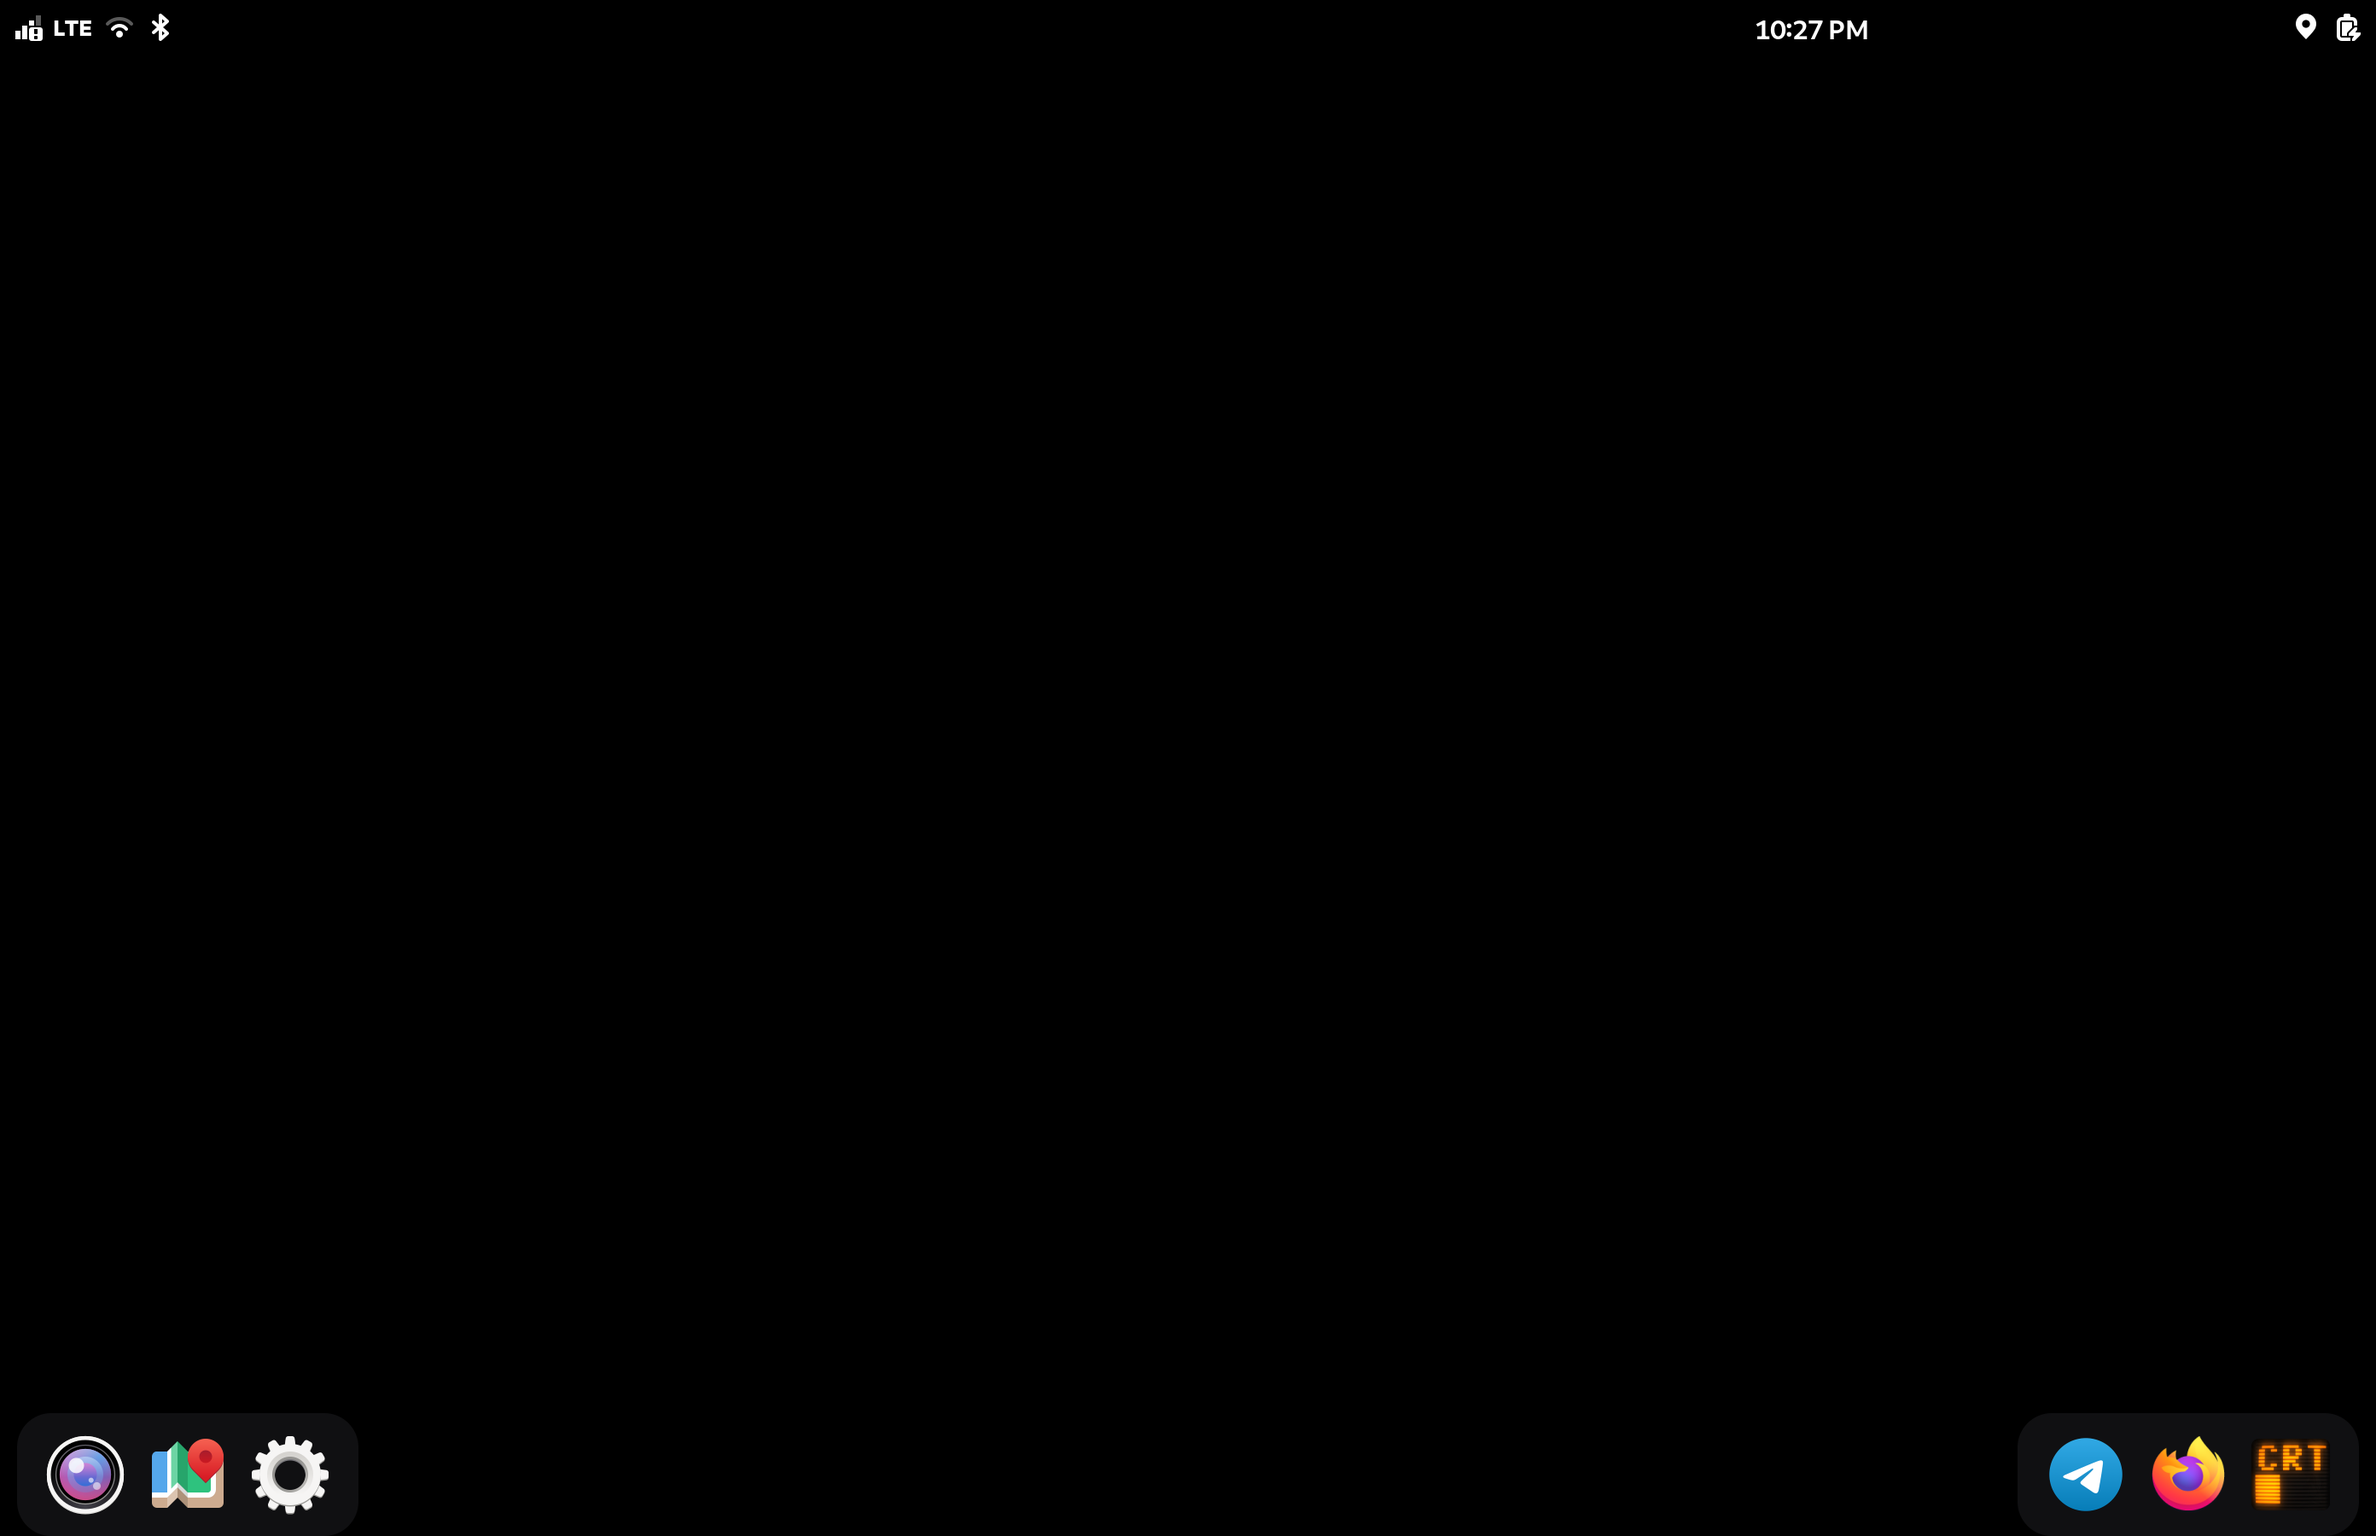
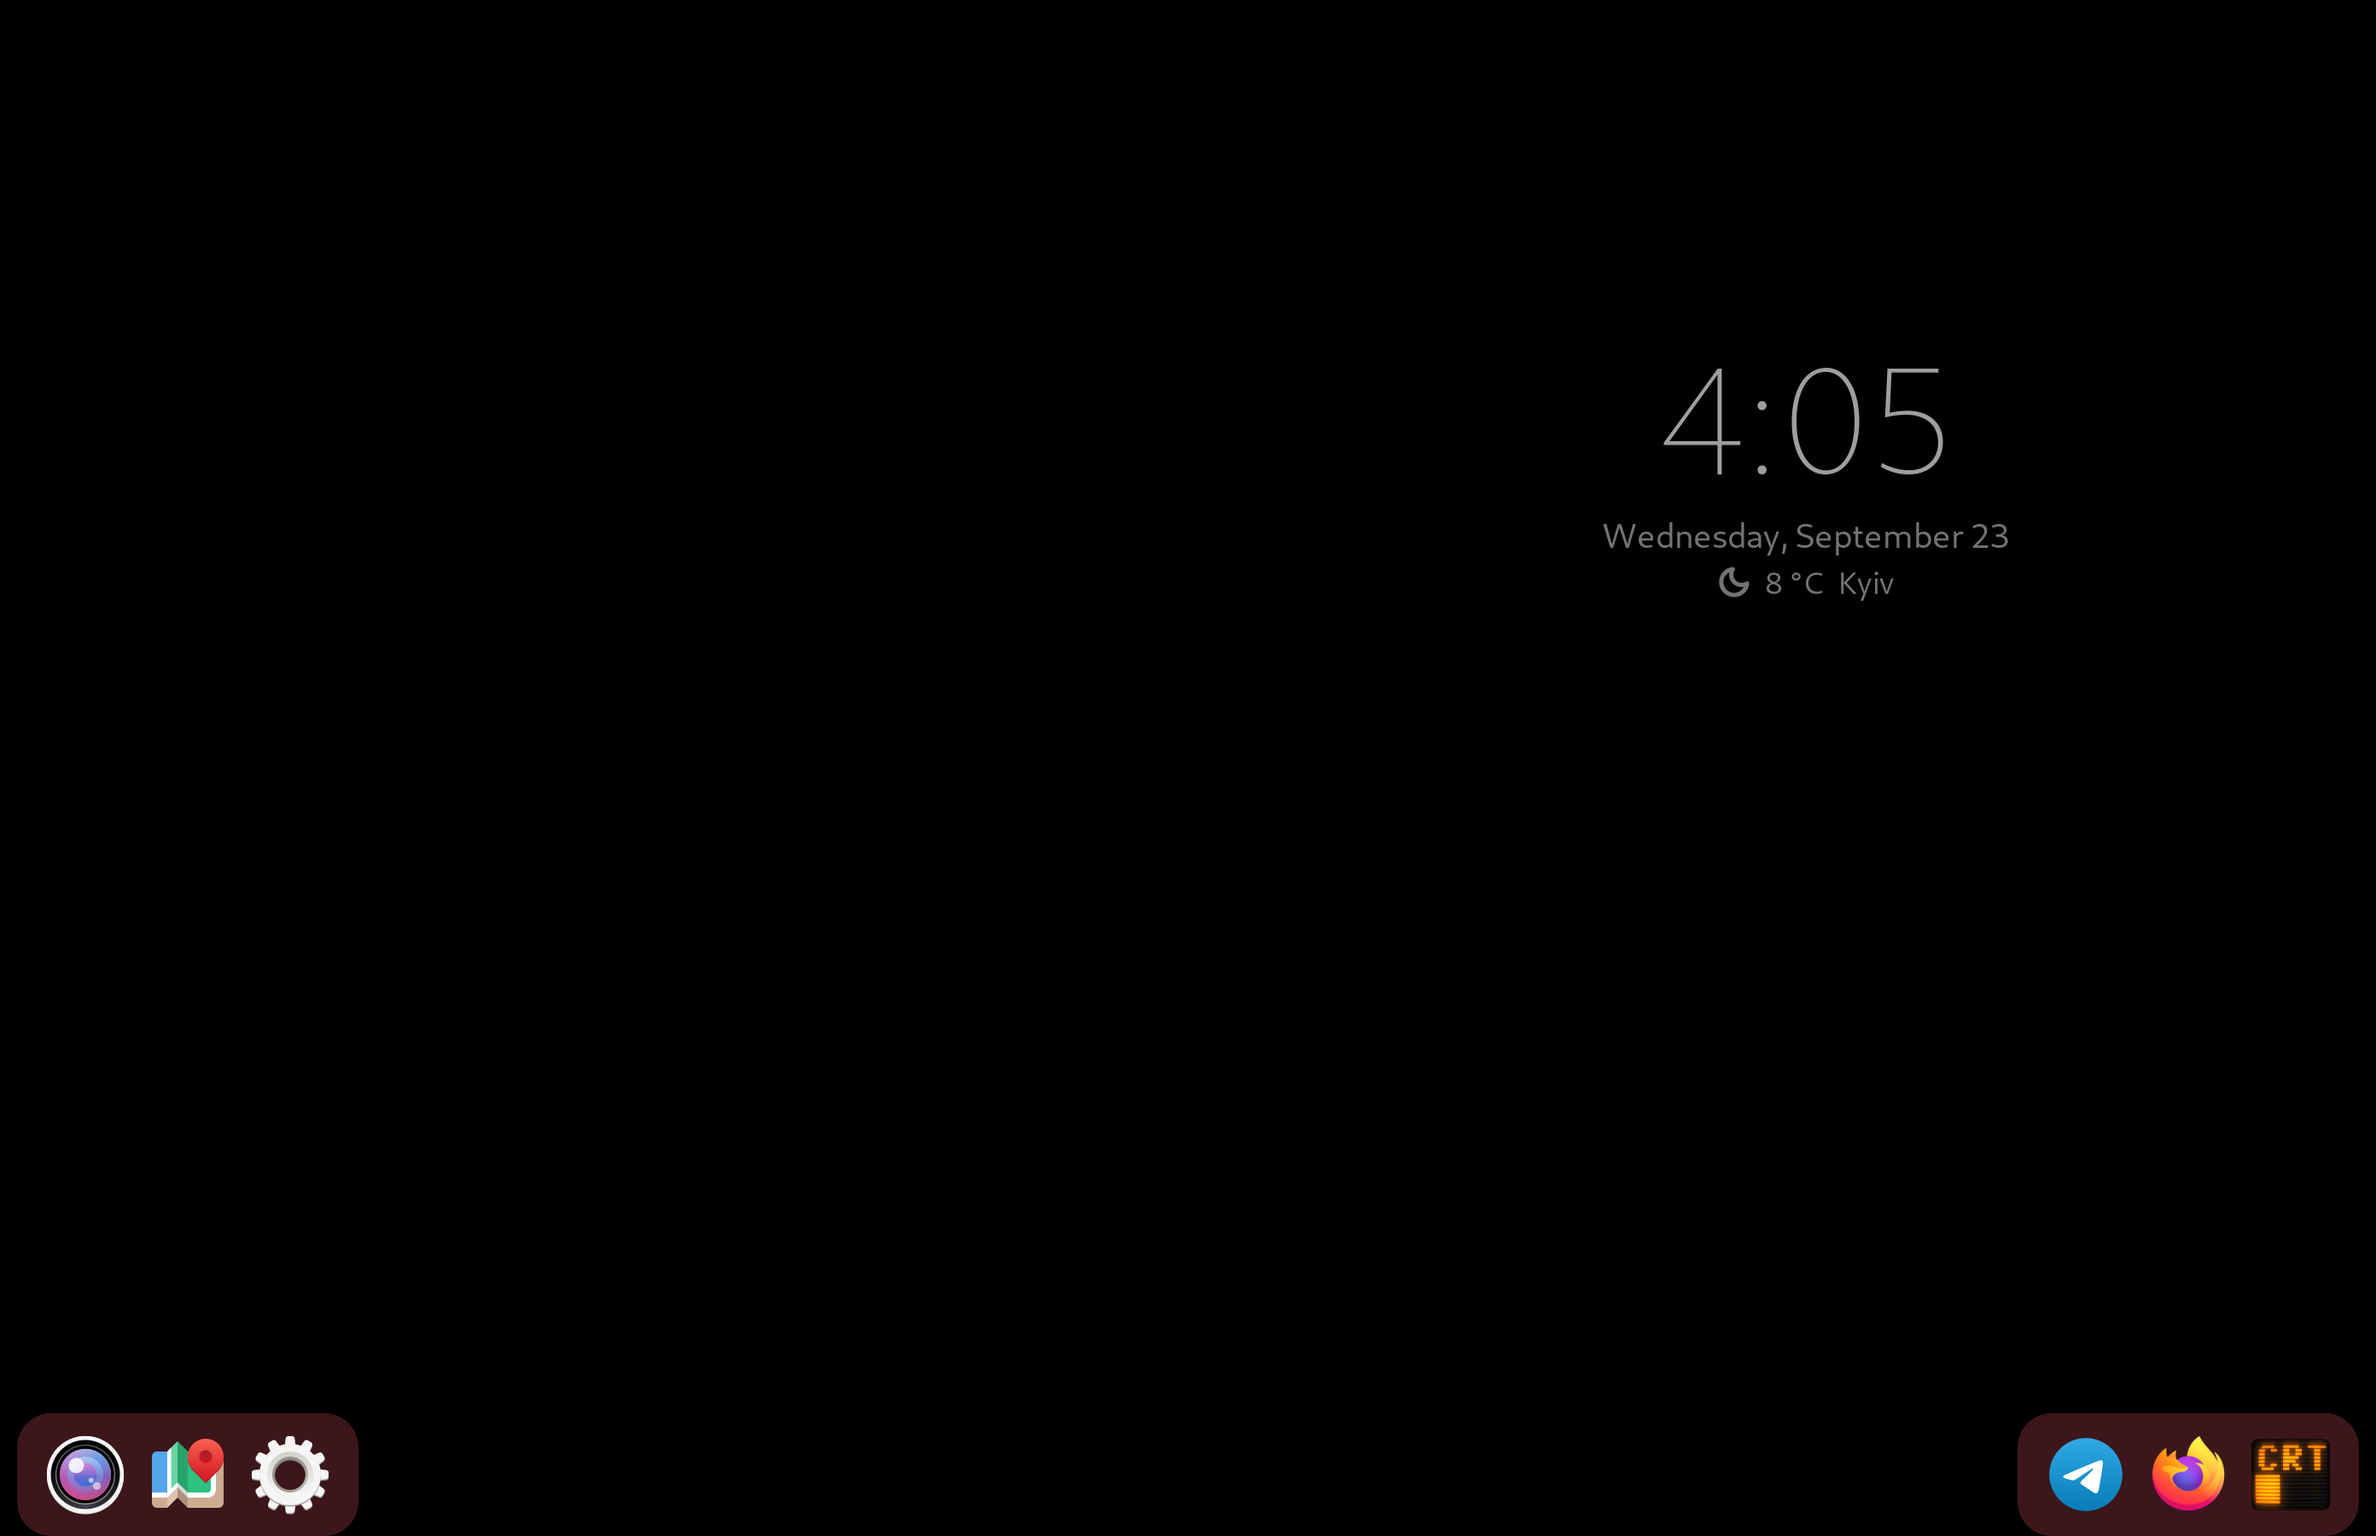
README: 0.17 - no status bar, the clock, Settings' switches, new screenshots
Status as of 2026-09-23: a fold locks and now turns the display off
rather than suspending, with what that costs overnight; the two-panel
shell row gains 0.17 (no bar outside the lock screen, the clock and the
weather, the far shade's status, the privacy dot, Settings' switches,
one way back). The shell README gets the 'No status bar' section. New
screenshots on 0.17.0: the desktop, Settings beside the clock, a window
on each panel, the right-hand shade; the first-run wizard and the grid
(with the bar, and the dock's gap of #104) retire. The package builds
0.17.0 by default.

diff --git a/README.md b/README.md
@@ -22,18 +22,20 @@ Microsoft's debugging (`kernel-packaging/droidian/surfaceduo-perf.config`,
 ## What it looks like
 
 Screenshots of the one output both panels share (2784x1800; the 84 px column
-the hinge hides is in the middle), taken on 0.15.4 at the port's output scale
-of 2 (the first-run wizard on a from-scratch install of 0.14.2, at 2.5). The
-two-panel shell is **experimental and in development**.
+the hinge hides is in the middle), taken on 0.17.0 at the port's output scale
+of 2 - the lock screen on 0.15.4, which it still looks like. The two-panel
+shell is **experimental and in development**.
 
 | | |
 |---|---|
-| ![the first-run wizard on one panel](docs/img/shell-welcome.png) | ![the dock across both panels](docs/img/shell-desktop.png) |
-| A window on the panel it opened on: the dock tiles it there, and the patched phoc stops it at the hinge rather than half way into it. | The dock in two halves, one at each panel's outer edge, under the thumbs. |
-| ![the app grid](docs/img/shell-grid.png) | ![the lock screen](docs/img/shell-lockscreen.png) |
-| Swipe up on a panel: every app, on that panel, and the dock's halves join on the other. | The lock screen, kept off the hinge by CSS alone; 55-60 fps on the unlock swipe at scale 2. |
+| ![the desktop: the dock in two halves and the clock](docs/img/shell-desktop.png) | ![Settings on one panel, the clock on the other](docs/img/shell-window.png) |
+| Nothing open: the dock in two halves at the panels' outer edges, under the thumbs, and the time, the date and the weather on the right panel. No status bar - since 0.17 there is none outside the lock screen. | The port's Settings on the panel it was opened on, at its Surface Duo page - the two-panel shell, the output scale, idle blanking. Back is the arrow in the corner under the thumb; the clock and the dock move to the free panel. |
+| ![a window on each panel](docs/img/shell-two.png) | ![the right-hand shade](docs/img/shell-shade.png) |
+| A window on each panel, each at its panel's full height: with both panels taken the dock and the clock step aside. | The right-hand shade: the clock, the date, signal, Wi-Fi and battery, the open windows with the panel each is on, and the notifications. The left-hand one holds the settings. |
+| ![the lock screen](docs/img/shell-lockscreen.png) | |
+| The lock screen keeps its bar, kept off the hinge by CSS alone; 55-60 fps on the unlock swipe at scale 2. | |
 
-## Status (2026-09-17)
+## Status (2026-09-23)
 
 | Subsystem | Status | Notes |
 |---|---|---|
@@ -52,11 +54,11 @@ two-panel shell is **experimental and in development**.
 | Flashlight / vibration | ✅ | sysfs LEDs (video group via udev); da7280 (FF_CONSTANT only) |
 | Pen (stylus) | 🟡 | it inks, but it is not a stylus to applications. The digitizer sends graded pressure, both buttons and a tool type; libinput discards all of it, because the node has to be classified as a touchscreen or touch dies. Measurements and the fix: [docs/PEN.md](docs/PEN.md) |
 | Brightness | ✅ | the phosh slider drives both panels (udev change-event sync); auto-brightness pending (ALS already works) |
-| Fold-to-sleep | ✅ | hall sensor (GPIO 121) → SW_LID bridge → logind suspends on fold; WoWLAN keeps WiFi associated through sleep |
+| Fold | ✅ | hall sensor (GPIO 121) → SW_LID bridge → logind. Since 0.13 a fold locks rather than suspends (suspend is off in the session; to have it back see [adaptation/system](adaptation/system/README.md)); since 0.17 it also turns the display off - closed on battery 33-55 mA, about 10 % of the battery over a night, against 126-184 mA with the panels left lit |
 | GPS | ✅ | vendor GNSS + geoclue hybris source, ~4 m fixes; needs the geoclue keepalive drop-in from the adaptation (see traps below) |
 | Modem (calls/SMS/LTE) | 🟡 | LTE data works (70-90 ms pings) once the adaptation puts the modem online and on LTE at boot - it comes up offline and on 3G otherwise, see [adaptation/system](adaptation/system/README.md). Incoming SMS arrive; sending SMS and calls not tested yet |
 | Video out (USB-C DP) | ❓ | the whole DisplayPort path sits in the stock device tree and probes cleanly; whether the lanes reach the connector has never been tested - see below |
-| Dual-screen aware UI | 🧪 | experimental, in development: stock phosh spans both panels as one; the adaptation adds a dock across both that tiles each app onto the panel it was launched from, CSS that keeps the shell's own furniture off the hinge, and patched phosh and phoc binaries (focus after the app grid closes; tiled windows stop at the hinge) - see [adaptation/shell](adaptation/shell/README.md). Since 0.15 the on-screen keyboard takes one panel (a patched phosh-osk-stub). Since 0.16 each half has its own shade (settings on the left, the open windows and notifications on the right), a lone window gets its panel's full height with the bar moved to the free one, the port's own Settings groups the pages that apply here, a swipe in from the outer edge is back, and windows close, minimize and cross between panels with a motion (patched phoc) |
+| Dual-screen aware UI | 🧪 | experimental, in development: stock phosh spans both panels as one; the adaptation adds a dock across both that tiles each app onto the panel it was launched from, CSS that keeps the shell's own furniture off the hinge, and patched phosh and phoc binaries (focus after the app grid closes; tiled windows stop at the hinge) - see [adaptation/shell](adaptation/shell/README.md). Since 0.15 the on-screen keyboard takes one panel (a patched phosh-osk-stub). Since 0.16 each half has its own shade (settings on the left, the open windows and notifications on the right), a lone window gets its panel's full height with the bar moved to the free one, the port's own Settings groups the pages that apply here, a swipe in from the outer edge is back, and windows close, minimize and cross between panels with a motion (patched phoc). Since 0.17 there is no status bar outside the lock screen (it burned into the OLED panels and took height from every window): the time, the date and the weather stand on the free panel, the right-hand shade carries the signal, Wi-Fi and battery, and a dot in the corner shows the microphone or the camera in use; Settings' Surface Duo page switches the two-panel shell, the output scale and idle blanking; back is one arrow in the corner under the thumb, with no arrows or chevrons in the pages |
 
 ## Repository layout
 

diff --git a/adaptation/shell/README.md b/adaptation/shell/README.md
@@ -267,6 +267,34 @@ new height on a bar at rest was stored and ignored, and the window stayed
 32 px down. Now the commit that sets it applies it and the output
 rearranges, which re-tiles the tiled windows too.
 
+### No status bar (0.17)
+
+The one-window case turned out to be the whole answer. Since 0.17 both
+halves of the bar are folded to their handles whenever the dock is running
+and the phone is not locked, whatever is open (#95, #96): a strip of fixed
+icons lit in the same pixels all day is the classic OLED burn-in, and its
+height came out of every window. The lock screen keeps its bar - the screen
+is lit to be glanced at. What the bar said went where it belongs:
+
+- **The time**, the date and the weather stand on the free panel as a clock
+  of the dock's (`DesktopClock`, #98) - on the right panel when both are
+  free, gone when neither is. It is a top-layer surface, because phosh's
+  home, which is what the desktop's black actually is, is one too and hid a
+  clock on the bottom layer; it follows the dock's own panel, which already
+  counts launches in flight, the keyboard and a pulled shade. Grey and thin,
+  and each minute it steps up to 12 px from its place. The weather is GNOME
+  Weather's first city, through its library, with met.no switched on (the
+  library's default sources gave nothing for Kyiv). A design of its own: #101.
+- **Signal, Wi-Fi and battery** are in the right-hand shade's head, under
+  its clock and date (`phosh-patches/0015`) - indicators of their own, the
+  bar keeping its for the lock screen.
+- **A microphone or a camera in use** is a dot in the right panel's top
+  corner (`PrivacyDot`, #99): orange while PulseAudio has a source output,
+  green while the camera app's window is open (Android's camera service
+  tells no one). Location is left out while something holds it all the time
+  (#102). A low battery was already gsd-power's notification, at UPower's
+  20 % and 5 %.
+
 ### Back, from the edge
 
 A window's back arrow is at its top, far from a thumb. As on Android, a
